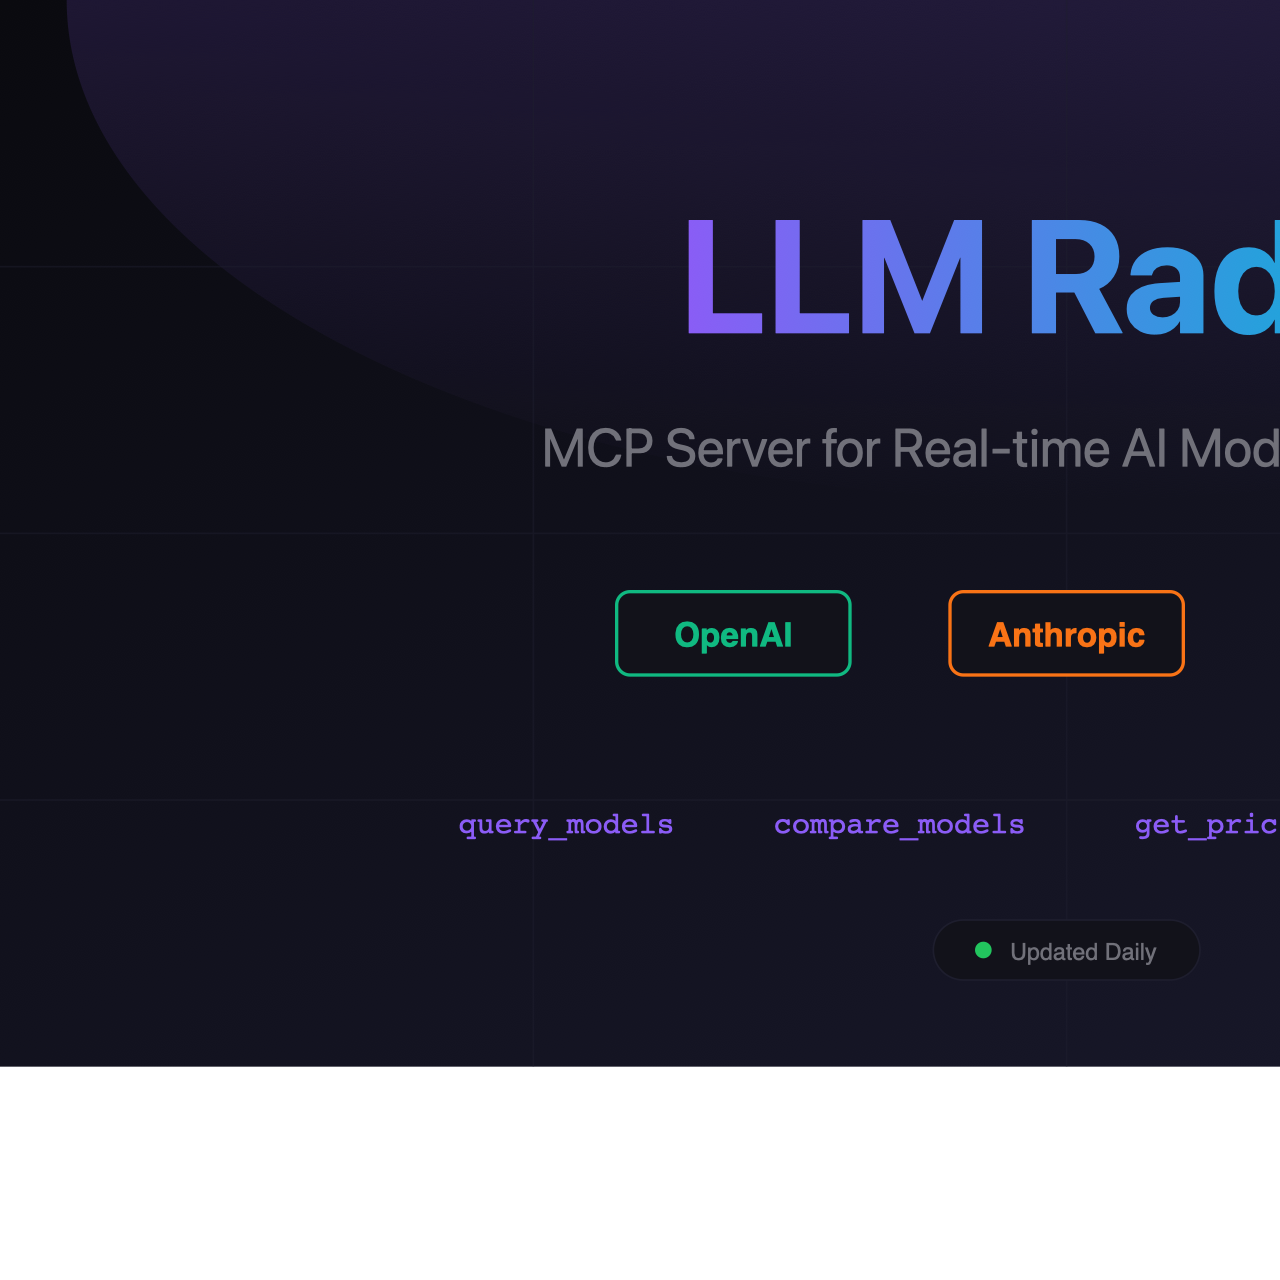
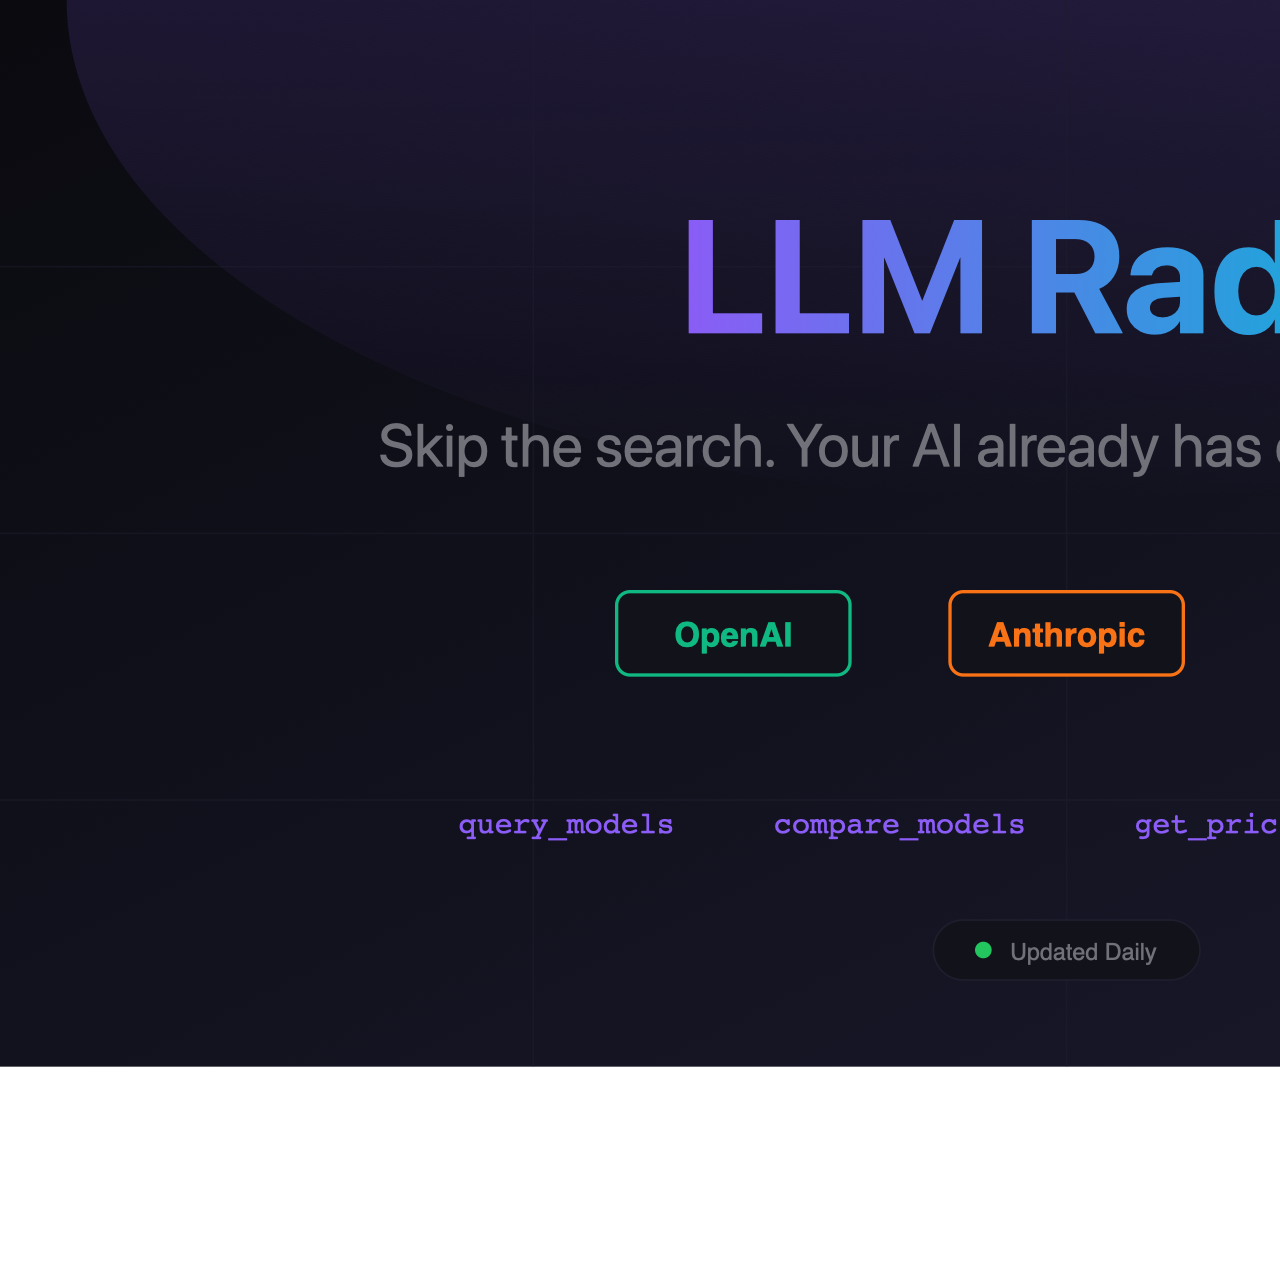
docs: align value proposition messaging across project
- Update tagline to "Skip the search. Your AI already has current model info."
- Update README, landing page, and social preview with consistent messaging
- Regenerate social preview PNG with updated subtitle

🤖 Generated with [Claude Code](https://claude.com/claude-code)

Changed region(s): [[0.2812, 0.3125, 1.0, 0.375]]

diff --git a/docs/index.html b/docs/index.html
@@ -4,11 +4,11 @@
     <meta charset="UTF-8">
     <meta name="viewport" content="width=device-width, initial-scale=1.0">
     <title>LLM Radar - Real-time AI Model Intelligence</title>
-    <meta name="description" content="MCP Server for Claude with real-time AI model intelligence. Query, compare, and get recommendations for OpenAI, Anthropic, and Google models. Updated daily.">
+    <meta name="description" content="Skip the search. MCP Server that gives your AI current info about OpenAI, Anthropic, and Google models. Updated daily.">
 
     <!-- Open Graph -->
     <meta property="og:title" content="LLM Radar">
-    <meta property="og:description" content="MCP Server for Claude - Real-time AI Model Intelligence">
+    <meta property="og:description" content="Skip the search. Your AI already has current model info.">
     <meta property="og:type" content="website">
     <meta property="og:image" content="https://llm-radar.ajents.company/social-preview.png">
     <meta property="og:image:width" content="1280">
@@ -314,7 +314,7 @@
     <section class="hero">
         <div class="container">
             <h1 class="logo">LLM Radar</h1>
-            <p class="tagline">MCP Server for Real-time AI Model Intelligence</p>
+            <p class="tagline">Skip the search. Your AI already has current model info.</p>
             <div class="badge">
                 <span class="dot"></span>
                 <span id="update-time">Updated daily</span>
@@ -348,8 +348,8 @@
 
     <section class="cta">
         <div class="container">
-            <h2 class="cta-title">MCP Server for Claude</h2>
-            <p class="cta-text">Add real-time AI model intelligence to Claude Desktop or any MCP-compatible client. Ask about models naturally with always up-to-date information.</p>
+            <h2 class="cta-title">Get Started</h2>
+            <p class="cta-text">Connect LLM Radar to Claude Desktop and stop searching for model info. Just ask - your AI already knows what's current.</p>
 
             <h3 style="font-size: 1.1rem; margin: 32px 0 16px; color: var(--text);">Quick Install</h3>
             <div class="code-block"><pre style="margin: 0; white-space: pre-wrap;"><span style="color: var(--text-muted)"># Clone the repository</span>

diff --git a/README.md b/README.md
@@ -9,7 +9,7 @@
 [![MCP Server](https://img.shields.io/badge/MCP-Server-orange.svg)](https://modelcontextprotocol.io)
 [![Updated Daily](https://img.shields.io/badge/data-updated%20daily-brightgreen.svg)](data/)
 
-**Stop guessing which AI model to use. Get the data.**
+**Skip the search. Your AI already has current model info.**
 
 [Live Dashboard](https://llm-radar.ajents.company) · [Model Reference](data/MODELS.md) · [MCP Setup](#mcp-server-setup) · [Contributing](CONTRIBUTING.md)
 
@@ -19,9 +19,11 @@
 
 ## What is LLM Radar?
 
-LLM Radar is an **MCP (Model Context Protocol) server** that provides real-time information about AI models from OpenAI, Anthropic, and Google.
+LLM Radar is an **MCP server** that gives your AI assistant current information about AI models from OpenAI, Anthropic, and Google.
 
-AI assistants have training data cutoffs, so they often recommend outdated models, wrong pricing, or deprecated APIs. LLM Radar solves this by:
+**The problem:** AI assistants have training cutoffs. Ask about models and you get outdated recommendations, deprecated APIs, or hallucinated pricing.
+
+**The solution:** Connect LLM Radar and your AI already knows what's available today:
 
 - Fetching fresh data from provider APIs **daily**
 - Enriching it with Claude for better descriptions
